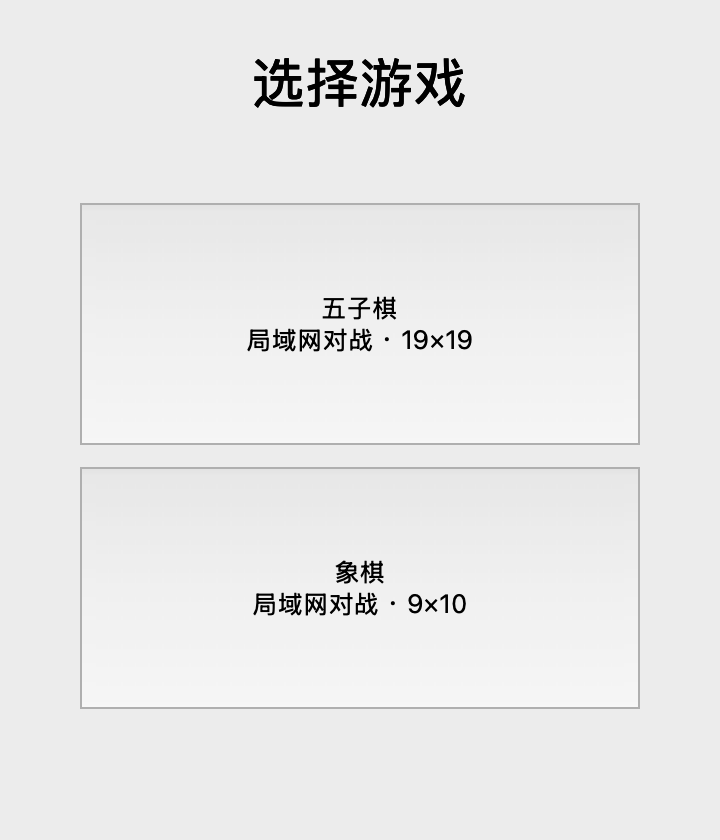
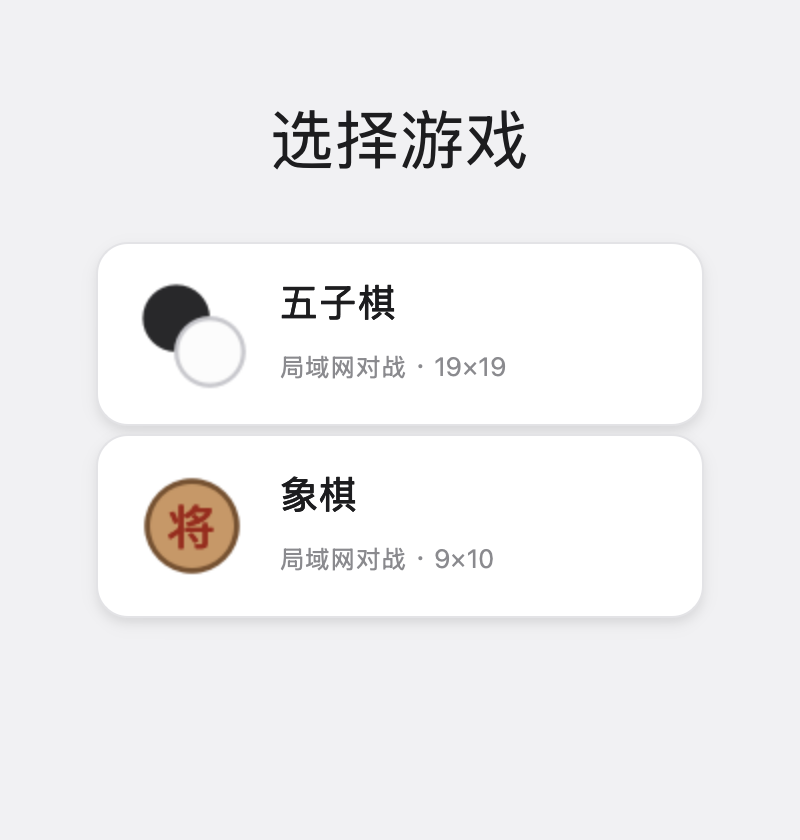
feat(launcher): 首页卡片式游戏选择界面（图标/投影/副标题）+ README 首页截图

diff --git a/app/launcher/GameLauncher.cpp b/app/launcher/GameLauncher.cpp
@@ -1,42 +1,144 @@
 #include "GameLauncher.h"
 
+#include <QGraphicsDropShadowEffect>
+#include <QHBoxLayout>
 #include <QLabel>
+#include <QPainter>
 #include <QPushButton>
 #include <QVBoxLayout>
 
 #include "../../games/gomoku/GomokuWindow.h"
 #include "../../games/xiangqi/XiangqiWindow.h"
 
+namespace {
+
+// 简约图标：五子棋 = 黑白棋子；象棋 = 圆形棋子 + 汉字
+QPixmap gomokuIcon(int size)
+{
+    QPixmap pm(size, size);
+    pm.fill(Qt::transparent);
+    QPainter p(&pm);
+    p.setRenderHint(QPainter::Antialiasing, true);
+    const float r = size * 0.30f;
+    p.setPen(Qt::NoPen);
+    p.setBrush(QColor(40, 40, 42));  // 黑子
+    p.drawEllipse(QPointF(size * 0.36f, size * 0.36f), r, r);
+    p.setBrush(QColor(252, 252, 252));  // 白子
+    p.setPen(QPen(QColor(200, 200, 205), size * 0.04f));
+    p.drawEllipse(QPointF(size * 0.66f, size * 0.66f), r, r);
+    return pm;
+}
+
+QPixmap xiangqiIcon(int size)
+{
+    QPixmap pm(size, size);
+    pm.fill(Qt::transparent);
+    QPainter p(&pm);
+    p.setRenderHint(QPainter::Antialiasing, true);
+    const float r = size * 0.40f;
+    p.setBrush(QColor(198, 152, 104));  // 棋子木色
+    p.setPen(QPen(QColor(118, 82, 50), size * 0.05f));
+    p.drawEllipse(QPointF(size * 0.5f, size * 0.5f), r, r);
+    QFont f = p.font();
+    f.setPixelSize(static_cast<int>(size * 0.46f));
+    f.setBold(true);
+    p.setFont(f);
+    p.setPen(QColor(150, 45, 30));
+    p.drawText(QRectF(0, 0, size, size), Qt::AlignCenter, QStringLiteral("将"));
+    return pm;
+}
+
+// 创建一张游戏卡片（图标 + 标题 + 副标题）
+QPushButton* makeCard(const QPixmap& icon, const QString& name, const QString& subtitle,
+                      QWidget* parent)
+{
+    auto* card = new QPushButton(parent);
+    card->setObjectName(QStringLiteral("gameCard"));
+    card->setCursor(Qt::PointingHandCursor);
+    card->setMinimumSize(280, 92);
+    card->setSizePolicy(QSizePolicy::Expanding, QSizePolicy::Fixed);
+
+    auto* iconLabel = new QLabel(card);
+    iconLabel->setPixmap(icon);
+    iconLabel->setFixedSize(56, 56);
+    iconLabel->setStyleSheet(QStringLiteral("background: transparent;"));
+
+    auto* nameLabel = new QLabel(name, card);
+    QFont nf = nameLabel->font();
+    nf.setPixelSize(20);
+    nf.setBold(true);
+    nameLabel->setFont(nf);
+    nameLabel->setStyleSheet(QStringLiteral("color: #1d1d1f; background: transparent;"));
+
+    auto* subLabel = new QLabel(subtitle, card);
+    QFont sf = subLabel->font();
+    sf.setPixelSize(13);
+    subLabel->setFont(sf);
+    subLabel->setStyleSheet(QStringLiteral("color: #8a8a8e; background: transparent;"));
+
+    auto* textLayout = new QVBoxLayout;
+    textLayout->setSpacing(2);
+    textLayout->addWidget(nameLabel);
+    textLayout->addWidget(subLabel);
+
+    auto* row = new QHBoxLayout(card);
+    row->setContentsMargins(20, 14, 20, 14);
+    row->setSpacing(16);
+    row->addWidget(iconLabel);
+    row->addLayout(textLayout);
+    row->addStretch();
+
+    // 柔和投影
+    auto* shadow = new QGraphicsDropShadowEffect(card);
+    shadow->setBlurRadius(24);
+    shadow->setOffset(0, 3);
+    shadow->setColor(QColor(0, 0, 0, 26));
+    card->setGraphicsEffect(shadow);
+
+    return card;
+}
+
+} // namespace
+
 GameLauncher::GameLauncher(QWidget* parent)
     : QMainWindow(parent)
 {
     setWindowTitle(QStringLiteral("棋类对战 · 选择游戏"));
+    setStyleSheet(QStringLiteral(
+        "QMainWindow { background: #f1f1f3; }\n"
+        "QPushButton#gameCard { background: #ffffff; border: 1px solid #e3e3e6;"
+        " border-radius: 16px; }\n"
+        "QPushButton#gameCard:hover { background: #fbfbfd; border-color: #cfcfd6; }\n"
+        "QPushButton#gameCard:pressed { background: #f4f4f7; }"));
 
     auto* title = new QLabel(QStringLiteral("选择游戏"), this);
     title->setAlignment(Qt::AlignCenter);
     QFont tf = title->font();
-    tf.setPixelSize(28);
+    tf.setPixelSize(34);
     tf.setBold(true);
     title->setFont(tf);
+    title->setStyleSheet(QStringLiteral("color: #1d1d1f; background: transparent;"));
 
-    m_gomokuCard = new QPushButton(QStringLiteral("五子棋\n局域网对战 · 19×19"), this);
-    m_xiangqiCard = new QPushButton(QStringLiteral("象棋\n局域网对战 · 9×10"), this);
-    m_gomokuCard->setMinimumSize(260, 130);
-    m_xiangqiCard->setMinimumSize(260, 130);
+    m_gomokuCard = makeCard(gomokuIcon(56), QStringLiteral("五子棋"),
+                            QStringLiteral("局域网对战 · 19×19"), this);
+    m_xiangqiCard = makeCard(xiangqiIcon(56), QStringLiteral("象棋"),
+                             QStringLiteral("局域网对战 · 9×10"), this);
     connect(m_gomokuCard, &QPushButton::clicked, this, &GameLauncher::openGomoku);
     connect(m_xiangqiCard, &QPushButton::clicked, this, &GameLauncher::openXiangqi);
 
     auto* central = new QWidget(this);
     auto* layout = new QVBoxLayout(central);
+    layout->setSpacing(16);
+    layout->setContentsMargins(48, 40, 48, 48);
+    layout->addSpacing(8);
     layout->addWidget(title);
-    layout->addStretch();
+    layout->addSpacing(20);
     layout->addWidget(m_gomokuCard);
     layout->addWidget(m_xiangqiCard);
     layout->addStretch();
-    layout->setContentsMargins(40, 24, 40, 40);
     setCentralWidget(central);
 
-    resize(360, 420);
+    setFixedSize(400, 420);
 }
 
 void GameLauncher::openGomoku()
